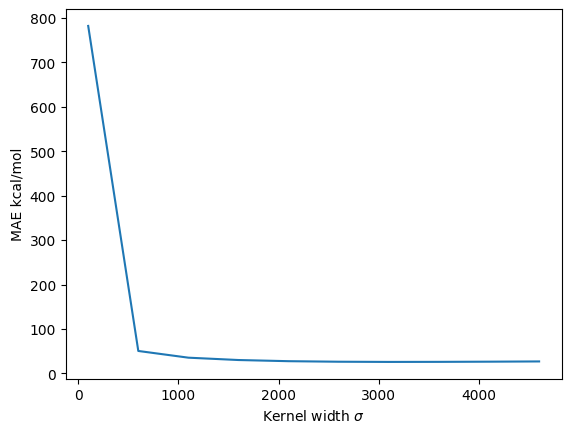
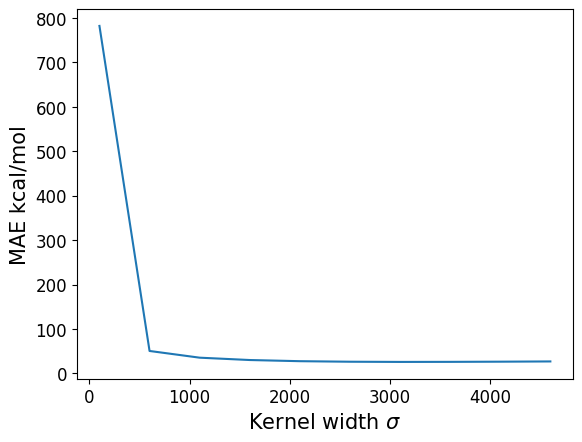
update, adjust figures and code

Changed region(s): [[0.0, 0.0, 1.0, 0.9908]]

diff --git a/chapter/ch9.tex b/chapter/ch9.tex
@@ -64,9 +64,9 @@ Set) และชุดข้อมูลสำหรับการตรวจ
 
 ภาพที่ \ref{fig:dataset_splitting} แสดงสัดส่วนแบบคร่าว ๆ ในการแบ่งชุดข้อมูลหลักออกเป็น Training Set และ Test Set 
 และแสดงการแบ่งชุดข้อมูล Training Set อีกครั้งให้เป็น Actual Training Set ที่จะถูกนำไปใช้ในการฝึกสอนโมเดลจริง ๆ และ Validation 
-Set ที่จะถูกนำมาทดสอบโมเดลเพื่อเป็นการหยั่งเชิงความสามารถของโมเดลก่อนที่จะนำไปใช้ทำนายค่าของเอาต์พุตของข้อมูลใน Test Set%
-\footnote{โดยทั่วไปแล้วหลาย ๆ คนมักจะทำการแบ่งชุดข้อมูลโดยใช้อัตราส่วนคือ 80\% (สำหรับ Training Set) และ 20\% (สำหรับ Test
-Set) ตามหลักการของ Pareto ซึ่งสามารถอ่านเพิ่มเติมได้ที่ \url{https://en.wikipedia.org/wiki/Pareto_principle}}
+Set ที่จะถูกนำมาทดสอบโมเดลเพื่อเป็นการหยั่งเชิงความสามารถของโมเดลก่อนที่จะนำไปใช้ทำนายค่าของเอาต์พุตของข้อมูลใน Test Set 
+โดยทั่วไปแล้วหลาย ๆ คนมักจะทำการแบ่งชุดข้อมูลโดยใช้อัตราส่วนคือ 80\% (สำหรับ Training Set) และ 20\% (สำหรับ Test Set) 
+ตามหลักการของ Pareto\footnote{\url{https://en.wikipedia.org/wiki/Pareto_principle}}
 
 แล้วขั้นตอนการลด Bias นั่นมันเกิดขึ้นได้อย่างไร คำตอบก็คือในการแบ่งข้อมูลออกมาเป็น Validation Set (เช่นแบ่งออกมา 20\% จากทั้งหมด)
 โดยทำการสุ่มเลือกบางส่วนของข้อมูลออกมา ซึ่งถ้าหากเราทำวนไปแบบนี้ไปเรื่อย ๆ เราจะเรียกว่าเป็นการทำ Validation แบบข้ามไปมาทั่วทั้ง 
@@ -325,15 +325,24 @@ pca_cm_data = pca_cm.fit_transform(cm)
 \begin{lstlisting}[style=MyPython]
 import matplotlib.pyplot as plt
 
-fig, axs = plt.subplots(1,2,figsize=(15,9))
-axs[0].set_title('Principal Components')
-axs[1].set_title('t-SNE')
+fig, axs = plt.subplots(nrows=2, ncols=1, figsize=(10,10), constrained_layout=True)
 
-plot1 = axs[0].scatter(pca_cm_data[:, 0], pca_cm_data[:, 1], c=target, cmap='jet', s=1)
-plot2 = axs[1].scatter(tsne_cm_data[:, 0], tsne_cm_data[:, 1], c=target, cmap='jet', s=1)
+axs[0].set_title('Principal Components', fontsize=15)
+axs[1].set_title('t-SNE', fontsize=15)
+axs[0].set_xlabel('Component 1', fontsize=15)
+axs[0].set_ylabel('Component 2', fontsize=15)
+axs[1].set_xlabel('Component 1', fontsize=15)
+axs[1].set_ylabel('Component 2', fontsize=15)
+axs[0].tick_params(axis='both', which='major', labelsize=12)
+axs[1].tick_params(axis='both', which='major', labelsize=12)
 
-cbar = fig.colorbar(plot2, ax=axs);
-cbar.set_label('Internal energy at 0 K [kcal/mol]')
+plot1 = axs[0].scatter(pca_cm_data[:, 0], pca_cm_data[:, 1], c=target, cmap='jet', s=2)
+plot2 = axs[1].scatter(tsne_cm_data[:, 0], tsne_cm_data[:, 1], c=target, cmap='jet', s=2)
+
+cbar = fig.colorbar(plot2, ax=axs, orientation="horizontal", pad=0.05);
+cbar.set_label('Internal energy at 0 K [kcal/mol]', fontsize=15)
+cbar.ax.tick_params(labelsize=12)
+
 plt.show()
 \end{lstlisting}
 
@@ -342,6 +351,6 @@ plt.show()
 \begin{figure}[H]
     \centering
     \includegraphics[width=\linewidth]{fig/cm_pca_tsne.png}
-    \caption{การกระจายตัวของ Coulomb Matrix Feature ที่ถูกลดจำนวนมิติให้เหลือเพียงแค่ 2 มิติ (Principal Component = 2)}
+    \caption{การกระจายตัวของ Coulomb Matrix Feature ที่ถูกลดจำนวนมิติให้เหลือเพียงแค่ 2 มิติ (Principal Components = 2)}
     \label{fig:cm_pca_tsne}
 \end{figure}

diff --git a/chapter/ch10.tex b/chapter/ch10.tex
@@ -189,10 +189,15 @@ for sigma in sigmas:
 เมื่อทำ Regression เสร็จแล้ว เราสามารถพลอตกราฟเพื่อดูความสัมพันธ์ค่า $\sigma$ ของ Kernel กับค่าความคลาดเคลื่อน MAE ได้ดังนี้
 
 \begin{lstlisting}[style=MyPython]
+import matplotlib.pyplot as plt
+
 fig, ax = plt.subplots()
+
 ax.plot(sigmas, test_maes)
-ax.set_ylabel('MAE kcal/mol')
-ax.set_xlabel('Kernel width $\sigma$')
+ax.set_ylabel('MAE kcal/mol', fontsize=15)
+ax.set_xlabel('Kernel width $\sigma$', fontsize=15)
+ax.tick_params(axis='both', which='major', labelsize=12)
+
 plt.show()
 \end{lstlisting}
 
@@ -251,23 +256,27 @@ MAE:  25.908959327933474 kcal/mol
 ของความคลาดเคลื่อนเพื่อตรวจสอบประสิทธิภาพของโมเดล
 
 \begin{lstlisting}[style=MyPython]
-fig, axes = plt.subplots(ncols=2, figsize=[12,4])
+import matplotlib.pyplot as plt
+
+fig, axes = plt.subplots(ncols=1, nrows=2, figsize=[6,8])
+
 ax = axes[0]
-ax.scatter(Y_cm_test, Y_cm_predicted)
-ax.set_ylabel('CM-KRR internal energies at 0 K \n prediction [kcal/mol]')
-ax.set_xlabel('Internal energies at 0 K [kcal/mol]')
+ax.scatter(Y_cm_test, Y_cm_predicted, s=16)
+ax.set_ylabel('CM-KRR internal energies at 0 K \n prediction [kcal/mol]', fontsize=15)
+ax.set_xlabel('Internal energies at 0 K [kcal/mol]', fontsize=15)
 
 ax = axes[1]
 ax.hist(Y_cm_test - Y_cm_predicted, bins=50, range=[-100,100], density=True)
-ax.set_ylabel('Histogram density')
-ax.set_xlabel('CM-KRR internal energies at 0 K errors [kcal/mol]')
+ax.set_ylabel('Histogram density', fontsize=15)
+ax.set_xlabel('CM-KRR internal energies at 0 K errors [kcal/mol]', fontsize=15)
+
 plt.tight_layout()
 plt.show()
 \end{lstlisting}
 
 \begin{figure}[H]
     \centering
-    \includegraphics[width=\linewidth]{fig/qm9_cm_kernel_corr.png}
+    \includegraphics[width=0.8\linewidth]{fig/qm9_cm_kernel_corr.png}
     \caption{ซ้าย: Correlation ของค่าพลังงานภายในของโมเลกุลระหว่างค่าอ้างอิงกับค่าจากการทำนาย, ขวา: Histrogram Density 
     ของค่าคลาดเคลื่อน}
     \label{fig:qm9_cm_kernel_corr}

diff --git a/chapter/ch7.tex b/chapter/ch7.tex
@@ -8,7 +8,7 @@
 \label{ch:el_prop}
 
 ส่วนที่สองของหนังสือเล่มนี้จะเกี่ยวข้องกับเคมีควอนตัมเป็นหลัก เคมีควอนตัมเป็นพื้นฐานสำคัญของการพัฒนาเทคนิคสำหรับการวิเคราะห์คุณสมบัติของโมเลกุล
-โดยนักเคมีนั้นส่วนใหญ่แล้วจะใช้เทคนิคทางสเปกโทรสโกปี เช่น Infra-red (IR) Spectroscopy, Nuclear Magnetic Resonance (NMR) 
+โดยนักเคมีนั้นส่วนใหญ่แล้วจะใช้เทคนิคทางสเปกโทรสโกปี เช่น Infrared (IR) Spectroscopy, Nuclear Magnetic Resonance (NMR) 
 Spectroscopy, และ Scanning Probe Microscopy ซึ่งเทคนิคเหล่านี้ล้วนเกี่ยวข้องกับการคำนวณหาพลังงานในระดับโมเลกุล นอกจากนี้แล้ว%
 เคมีควอนตัมยังเกี่ยวข้องกับการศึกษาสถานะพื้น (Ground State) และสถานะกระตุ้น (Excited State) ของอะตอมแต่ละตัว รวมไปถึงการศึกษา%
 กลไกการเกิดปฏิริยาเคมีและสถานะทรานซิชั่น (Transition State) ที่เป็นสถานะที่เกิดขึ้นในการเปลี่ยนแปลงโครงสร้างของโมเลกุล การที่เรา%
